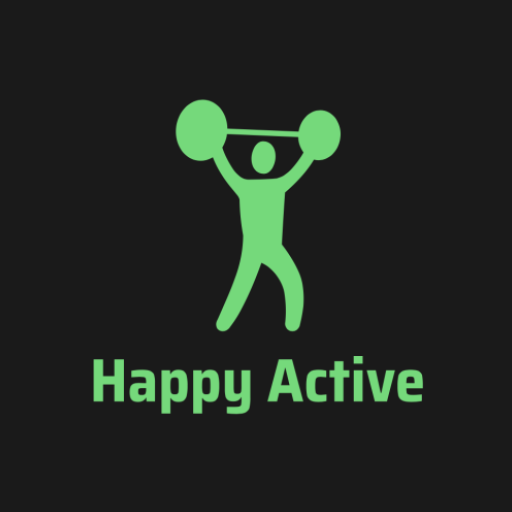
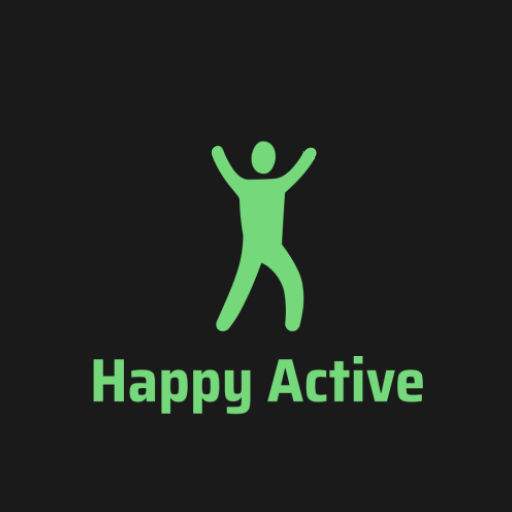
fix detail activity layout

Changed region(s): [[0.3438, 0.1875, 0.6875, 0.3125]]

diff --git a/app/src/main/java/edu/monash/student/happyactive/fragments/ActivityDetails/PackageDetailsFragment.java b/app/src/main/java/edu/monash/student/happyactive/fragments/ActivityDetails/PackageDetailsFragment.java
@@ -16,6 +16,8 @@ import android.widget.Button;
 import android.widget.ImageView;
 import android.widget.TextView;
 
+import com.bumptech.glide.Glide;
+
 import edu.monash.student.happyactive.ActivityPackages.viewModels.ActivityPackageViewModel;
 import edu.monash.student.happyactive.R;
 
@@ -64,8 +66,10 @@ public class PackageDetailsFragment extends Fragment {
                 new ActivityPackageViewModel.Factory(getActivity().getApplication())).get(ActivityPackageViewModel.class);
 
         mPackageViewModel.getActivityPackageById(selectedActivityId).observe(getViewLifecycleOwner(), activity -> {
-            ((ImageView) view.findViewById(R.id.detail_image)).setImageResource(getResources()
-                            .getIdentifier(activity.imagePath.split("[.]")[0], "drawable", "edu.monash.student.happyactive"));
+            Glide.with(this).load(getResources()
+                    .getIdentifier(activity.imagePath.split("[.]")[0], "drawable", "edu.monash.student.happyactive")).centerInside().into(
+                    (ImageView) view.findViewById(R.id.detail_image)
+            );
             ((TextView) view.findViewById(R.id.activity_title)).setText(activity.title);
             ((TextView) view.findViewById(R.id.activity_description)).setText(activity.description);
             //if (activity.getMaterials() != null)
